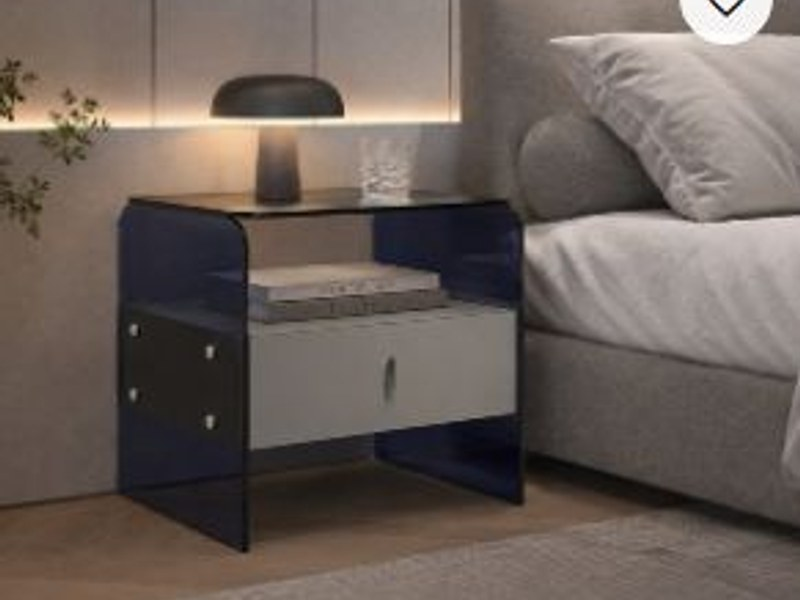
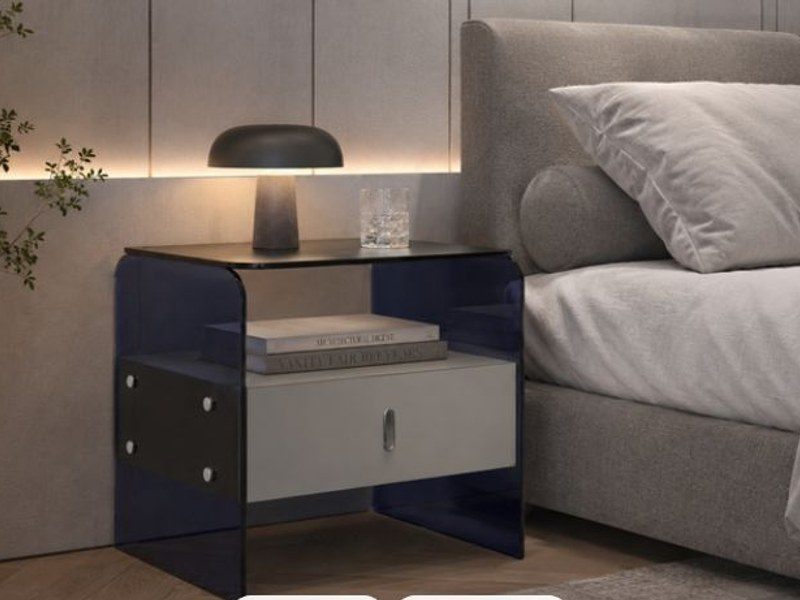
feat: professional full-bleed card photos, drawer-style screenshot gallery
Card thumbnails were an inconsistent mix (Monte's isolated product
cutout, HiTerra's flat logo tile, EvenMall's lifestyle shot with a
stray wishlist-icon artifact). Replaced all three with full-bleed
photography pulled straight from the live sites: Monte's "designed to
disappear" lifestyle shot, HiTerra's farmer-in-the-field photo from
their About page, and EvenMall's clean product-detail hero (cropped
above the trust-badge row).

"More of the site" is no longer part of the challenge/solution/stack
timeline — it's evidence, not a step, so the rail now stops after The
stack. The gallery itself is rebuilt: instead of a row of small
thumbnails, each device (desktop/tablet/mobile) shows one big
screenshot at a time, with Previous/Next controls when a device has
more than one (typically desktop, where the page is long). Each
device group reveals on its own as the reader scrolls to it. The
lightbox is unchanged otherwise (scroll lock, focus return, arrow
keys, device framing).

diff --git a/components/portfolio/ScreenshotGallery.tsx b/components/portfolio/ScreenshotGallery.tsx
@@ -2,6 +2,7 @@
 
 import { useEffect, useRef, useState } from "react";
 import { DeviceFrame, type DeviceKind } from "@/components/portfolio/DeviceFrame";
+import { Reveal } from "@/components/ui/reveal";
 
 export interface Screenshot {
   src: string;
@@ -9,10 +10,18 @@ export interface Screenshot {
   device: DeviceKind;
 }
 
-const widthByDevice: Record<DeviceKind, string> = {
-  desktop: "w-[280px] sm:w-[360px]",
-  tablet: "w-40 sm:w-48",
-  mobile: "w-32 sm:w-40",
+const deviceOrder: DeviceKind[] = ["desktop", "tablet", "mobile"];
+
+const inlineMaxWidth: Record<DeviceKind, string> = {
+  desktop: "max-w-3xl",
+  tablet: "max-w-sm",
+  mobile: "max-w-xs",
+};
+
+const inlineSizes: Record<DeviceKind, string> = {
+  desktop: "(min-width: 1024px) 768px, 100vw",
+  tablet: "(min-width: 640px) 384px, 90vw",
+  mobile: "(min-width: 640px) 320px, 80vw",
 };
 
 const lightboxWidthByDevice: Record<DeviceKind, string> = {
@@ -35,18 +44,30 @@ function altFor(name: string, shot: Screenshot): string {
 }
 
 /** Wraps an index forward (+1) or back (-1) within [0, length). Pure so the
- * lightbox's keyboard/arrow navigation is unit-testable without mounting. */
+ * carousel/lightbox keyboard/arrow navigation is unit-testable without mounting. */
 export function cycleIndex(current: number, direction: 1 | -1, length: number): number {
   return (current + direction + length) % length;
 }
 
 /**
- * All shots sit in one wrapping row, each framed in its own browser/tablet/
- * phone chrome so the device itself signals what it is — no grouping
- * headings needed. Clicking any tile opens a full-size lightbox (framed the
- * same way) that steps through every shot.
+ * One big screenshot at a time per device (desktop/tablet/mobile), each
+ * framed in its own browser/tablet/phone chrome. A device with more than one
+ * shot (typically desktop, when the page is long) gets Previous/Next
+ * controls to step through them, like a drawer — instead of cramming every
+ * shot into a row of small thumbnails. Each device group reveals on its own
+ * as the reader scrolls to it. Clicking the current shot opens a full-size
+ * lightbox that steps through every shot across every device.
  */
 export function ScreenshotGallery({ shots, name }: { shots: Screenshot[]; name: string }) {
+  const groups = deviceOrder
+    .map(device => ({ device, items: shots.filter(s => s.device === device) }))
+    .filter(g => g.items.length > 0);
+
+  const [slidePos, setSlidePos] = useState<Partial<Record<DeviceKind, number>>>({});
+  const slideFor = (device: DeviceKind) => slidePos[device] ?? 0;
+  const stepSlide = (device: DeviceKind, direction: 1 | -1, length: number) =>
+    setSlidePos(prev => ({ ...prev, [device]: cycleIndex(prev[device] ?? 0, direction, length) }));
+
   const [activeIndex, setActiveIndex] = useState<number | null>(null);
   const triggerRef = useRef<HTMLButtonElement | null>(null);
 
@@ -54,6 +75,11 @@ export function ScreenshotGallery({ shots, name }: { shots: Screenshot[]; name: 
     setActiveIndex(null);
     triggerRef.current?.focus();
     triggerRef.current = null;
+  };
+
+  const openLightbox = (shot: Screenshot, e: React.MouseEvent<HTMLButtonElement>) => {
+    triggerRef.current = e.currentTarget;
+    setActiveIndex(shots.findIndex(s => s.src === shot.src));
   };
 
   // Lock background scroll while the lightbox covers the viewport.
@@ -86,21 +112,49 @@ export function ScreenshotGallery({ shots, name }: { shots: Screenshot[]; name: 
 
   return (
     <>
-      <div className="flex flex-wrap items-start gap-4">
-        {shots.map((shot, index) => (
-          <button
-            key={shot.src}
-            type="button"
-            onClick={e => {
-              triggerRef.current = e.currentTarget;
-              setActiveIndex(index);
-            }}
-            className={`group shrink-0 text-left transition-transform duration-300 hover:-translate-y-1 ${widthByDevice[shot.device]}`}
-          >
-            <DeviceFrame device={shot.device} src={shot.src} alt={altFor(name, shot)} />
-            {shot.label && <p className="mt-2 text-[12px] text-zinc-400">{shot.label}</p>}
-          </button>
-        ))}
+      <div className="space-y-10">
+        {groups.map(({ device, items }) => {
+          const index = slideFor(device);
+          const shot = items[index];
+          return (
+            <Reveal key={device} className={`mx-auto ${inlineMaxWidth[device]}`}>
+              <button type="button" onClick={e => openLightbox(shot, e)} className="group block w-full">
+                <DeviceFrame
+                  device={device}
+                  src={shot.src}
+                  alt={altFor(name, shot)}
+                  sizes={inlineSizes[device]}
+                />
+              </button>
+              {shot.label && (
+                <p className="mt-3 text-center text-[13px] text-zinc-400">{shot.label}</p>
+              )}
+              {items.length > 1 && (
+                <div className="mt-4 flex items-center justify-center gap-5">
+                  <button
+                    type="button"
+                    aria-label="Previous"
+                    onClick={() => stepSlide(device, -1, items.length)}
+                    className="font-display text-[13px] text-zinc-400 transition-colors hover:text-white"
+                  >
+                    ← Previous
+                  </button>
+                  <span className="font-mono text-[11px] text-zinc-500">
+                    {index + 1} / {items.length}
+                  </span>
+                  <button
+                    type="button"
+                    aria-label="Next"
+                    onClick={() => stepSlide(device, 1, items.length)}
+                    className="font-display text-[13px] text-zinc-400 transition-colors hover:text-white"
+                  >
+                    Next →
+                  </button>
+                </div>
+              )}
+            </Reveal>
+          );
+        })}
       </div>
 
       {activeShot && (

diff --git a/app/portfolio/[slug]/page.tsx b/app/portfolio/[slug]/page.tsx
@@ -91,9 +91,10 @@ export default async function PortfolioProjectPage({
         </Card>
       </Reveal>
 
-      {/* One continuous timeline — challenge, solution, stack, and the site
-          itself — down the left edge. Each step reveals on its own as the
-          reader scrolls to it; only the connecting rail is static. */}
+      {/* The timeline — challenge, solution, then the stack — down the left
+          edge. Each step reveals on its own as the reader scrolls to it;
+          only the connecting rail is static. "More of the site" below is
+          deliberately outside this rail — it's evidence, not a step. */}
       <div className="relative mt-10 pl-9 sm:pl-11">
         <div className="absolute left-[15px] top-2 bottom-2 w-px bg-line sm:left-[19px]" />
 
@@ -144,15 +145,14 @@ export default async function PortfolioProjectPage({
             ))}
           </div>
         </Reveal>
-
-        <Reveal className="relative">
-          <span className="absolute -left-[22px] top-1 h-2.5 w-2.5 rounded-full bg-zinc-500 sm:-left-[26px]" />
-          <h2 className="font-display text-lg font-semibold text-white">More of the site</h2>
-          <div className="mt-4">
-            <ScreenshotGallery shots={project.screenshots} name={project.name} />
-          </div>
-        </Reveal>
       </div>
+
+      <Reveal className="mt-16">
+        <h2 className="font-display text-lg font-semibold text-white">More of the site</h2>
+        <div className="mt-6">
+          <ScreenshotGallery shots={project.screenshots} name={project.name} />
+        </div>
+      </Reveal>
 
       {related.length > 0 && (
         <footer className="mt-16 max-w-2xl border-t border-line pt-10">
